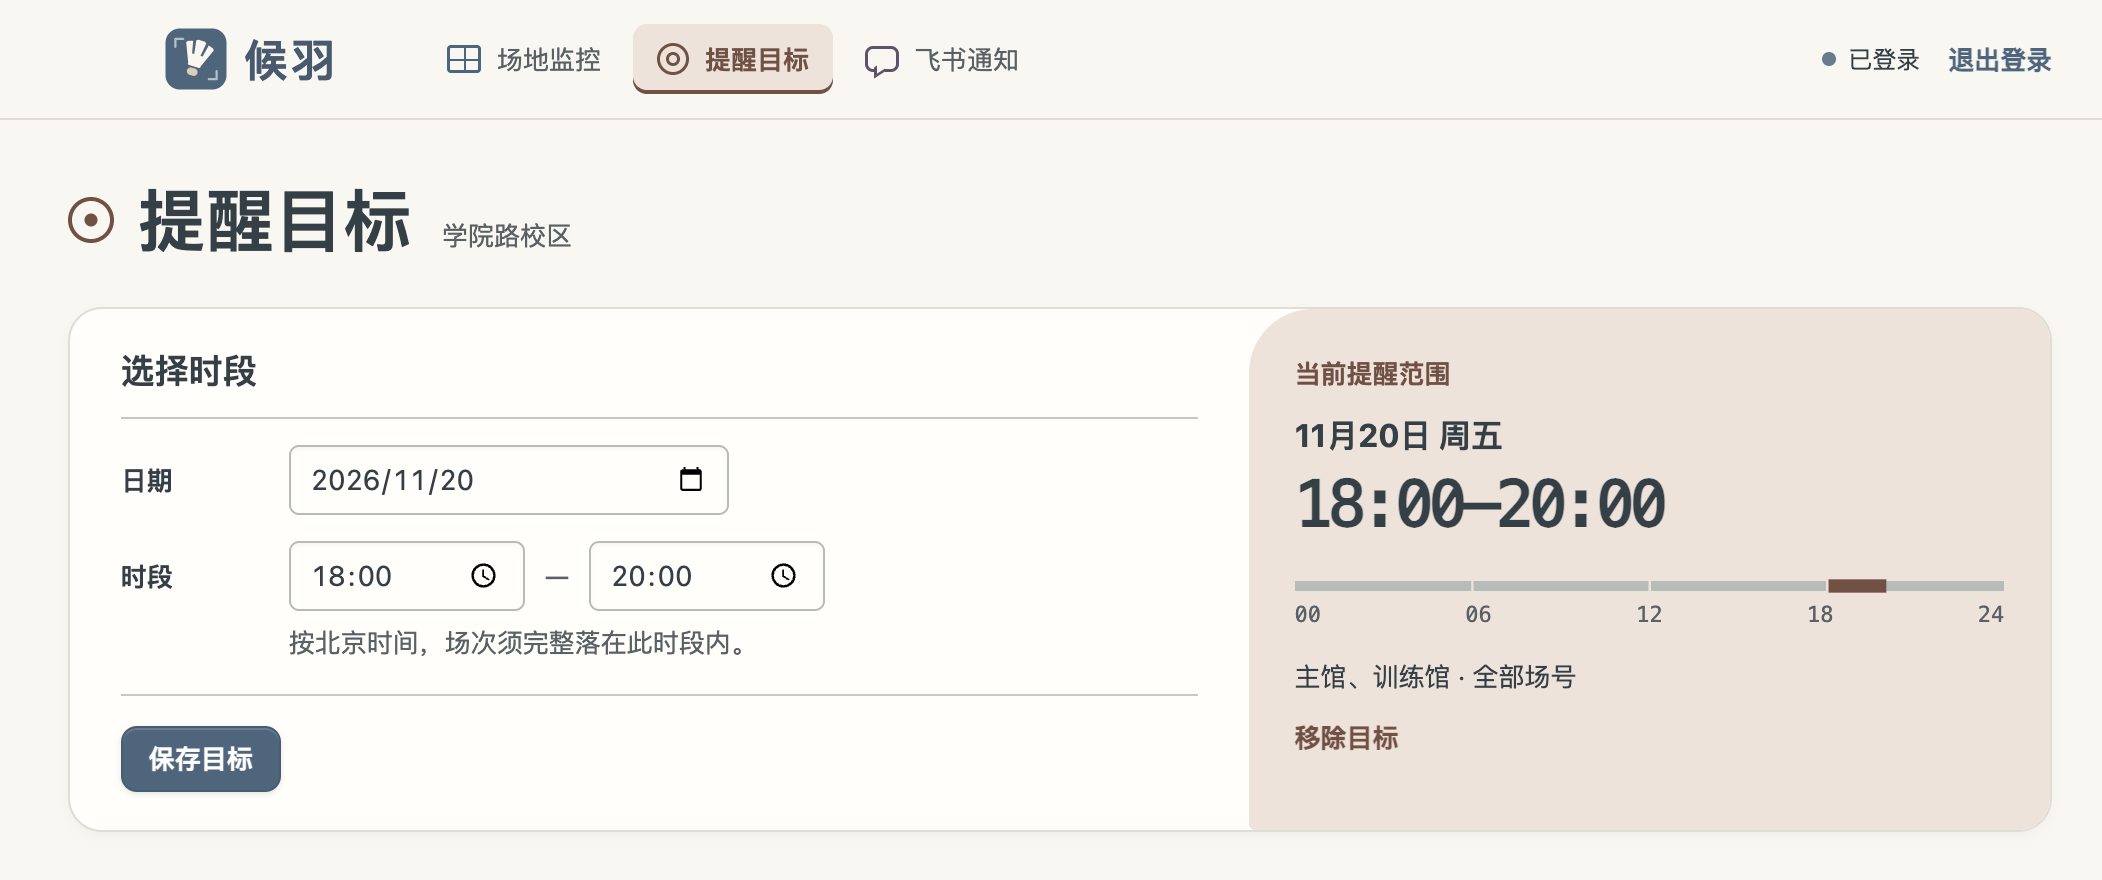
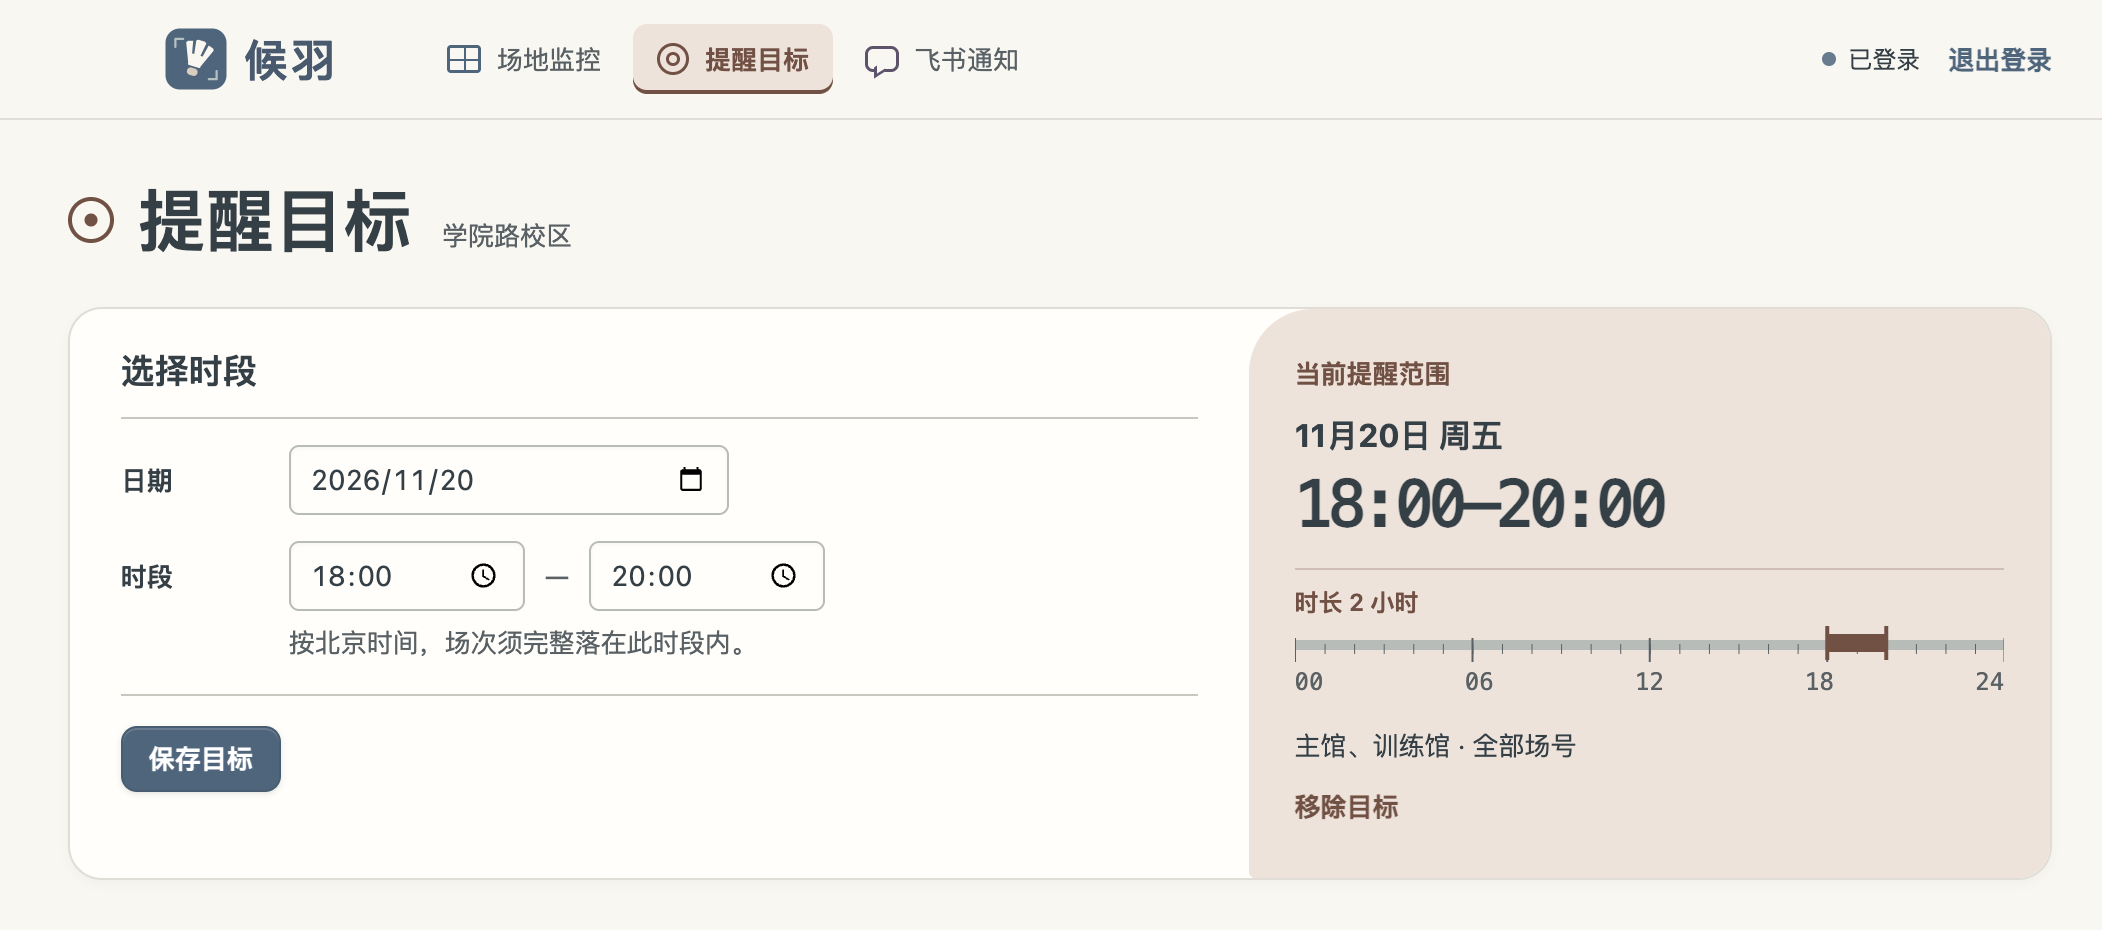
Show the active alert window above the timetable and mark each matching session

diff --git a/src/ui/styles.css b/src/ui/styles.css
@@ -96,7 +96,7 @@ h2 { font-size: 17px; line-height: 1.4; font-weight: 650; }
 .page-head { display: flex; align-items: center; min-height: 55px; margin-bottom: 16px; }
 .page-head > div { display: flex; align-items: baseline; gap: 15px; }
 .page-head h1 { font-weight: 650; font-size: clamp(27px, 3.2vw, 36px); }
-.page-head p, .subtle, .field-note, .push-instructions, #saved-place, #shortcut-place { color: var(--muted); font-size: 13px; }
+.page-head p, .subtle, .field-note, .push-instructions, #saved-place { color: var(--muted); font-size: 13px; }
 #page-target, #page-feishu { max-width: 1080px; }
 #page-target { --section-accent: var(--clay-ink); }
 #page-feishu { --section-accent: var(--plum-ink); }
@@ -159,7 +159,25 @@ h2 { font-size: 17px; line-height: 1.4; font-weight: 650; }
 .monitor-grid { margin-top: 16px; }
 .section-head, .connection-head, .agenda-title { display: flex; align-items: center; justify-content: space-between; gap: 6px 12px; }
 .section-head { flex-wrap: wrap; }
-.agenda-head { min-height: 38px; margin-bottom: 10px; }
+.agenda-top { display: flex; align-items: center; flex-wrap: wrap; gap: 6px 16px; margin-bottom: 9px; }
+.agenda-head { flex: 1 1 auto; min-height: 36px; }
+.target-summary {
+  display: flex; flex: 1 0 100%; align-items: center; gap: 6px 15px; flex-wrap: wrap;
+  padding: 6px 12px; border-left: 4px solid var(--clay-ink); border-radius: 3px 9px 9px 3px;
+  background: var(--clay-paper); color: var(--clay-ink);
+}
+.target-when, .target-label { display: flex; align-items: center; flex-wrap: wrap; gap: 4px 11px; }
+.target-label { gap: 6px; white-space: nowrap; font-size: 13px; font-weight: 650; }
+.target-label .target-icon { width: 14px; height: 14px; }
+#shortcut-range { color: var(--ink); font-size: 14px; font-weight: 600; }
+#shortcut-place { color: var(--clay-ink); font: 650 clamp(16px, 1.85vw, 22px)/1.25 var(--numeric); letter-spacing: -.05em; white-space: nowrap; }
+#shortcut-scope { margin-left: auto; color: var(--clay-ink); font-size: 12px; }
+#open-target { padding: 4px; color: var(--clay-ink); }
+.target-summary[data-state=all] { flex: 0 1 auto; padding: 0; gap: 5px; border: 0; border-radius: 0; background: transparent; }
+.target-summary[data-state=all] :is(.target-label, #shortcut-place, #shortcut-scope) { display: none; }
+.target-summary[data-state=all] #shortcut-range { color: var(--muted); font-size: 12px; font-weight: 450; }
+.target-summary:is([data-state=expired],[data-state=invalid]) { border-left-style: dashed; background: var(--neutral-panel); }
+.target-summary:is([data-state=expired],[data-state=invalid]) :is(#shortcut-place, #shortcut-scope) { color: var(--muted); }
 .agenda-title { flex-wrap: wrap; justify-content: flex-start; align-items: baseline; }
 .agenda-title h2 { font-size: 21px; font-weight: 650; }
 .date-filter { display: flex; flex-wrap: wrap; gap: 2px; }
@@ -187,8 +205,8 @@ tbody .new-day > *, .date-cell { border-top: 1px solid var(--line); }
 .slot-time, .price { font-family: var(--numeric); font-size: 13px; white-space: nowrap; }
 .slot-time { letter-spacing: -.035em; color: var(--muted); font-size: 15px; }
 .slot-time strong { font-weight: 650; color: var(--ink); }
-.in-target .slot-time { padding-left: 9px; box-shadow: inset 2px 0 var(--clay-ink); }
-.target-caption { display: block; width: fit-content; color: var(--clay-ink); font: 550 11px/1.5 system-ui, sans-serif; letter-spacing: .03em; }
+.in-target .slot-time { padding-left: 11px; box-shadow: inset 3px 0 var(--clay-ink); background: color-mix(in srgb, var(--clay-paper) 52%, var(--sheet)); }
+.target-caption { display: inline-block; margin-left: 7px; color: var(--clay-ink); font: 650 12px/1.4 system-ui, sans-serif; }
 .venue-link { min-height: 27px; white-space: nowrap; font-size: 13px; line-height: 1.45; padding: 3px 8px; border-radius: 4px; }
 .venue-link[data-venue="38"] { color: var(--selected-ink); background: var(--blue-paper); }
 .venue-link[data-venue="39"] { color: var(--plum-ink); background: var(--plum-paper); }
@@ -200,10 +218,14 @@ tbody .new-day > *, .date-cell { border-top: 1px solid var(--line); }
 .empty { display: grid; align-content: center; justify-items: start; min-height: 96px; padding: 15px 3px; border-block: 1px solid var(--line); }
 .empty strong { font-size: 15px; font-weight: 560; }
 .empty p { margin-top: 4px; color: var(--muted); font-size: 13px; }
-.inspector { display: grid; grid-template-columns: minmax(0, 1.55fr) minmax(190px, 1fr); align-items: center; gap: clamp(16px, 3vw, 36px); padding: 13px clamp(12px, 2vw, 28px); border-top: 1px solid var(--light-line); border-radius: 0 0 16px 16px; background: var(--tools-surface); }
-.controls { display: grid; grid-template-columns: minmax(125px, .95fr) minmax(166px, 1fr); gap: clamp(15px, 2.5vw, 30px); }
+.inspector { padding: 9px clamp(12px, 2vw, 28px); border-top: 1px solid var(--light-line); border-radius: 0 0 16px 16px; background: var(--tools-surface); }
+.controls { display: flex; align-items: center; flex-wrap: wrap; gap: 8px clamp(17px, 3.5vw, 50px); }
+.controls fieldset, #interval-form { display: flex; align-items: center; gap: 10px; }
+.controls legend { float: left; }
+.controls .campus-options { margin: 0; min-width: 142px; }
+.controls .interval-entry { margin: 0; width: 169px; }
 fieldset { margin: 0; padding: 0; min-width: 0; border: 0; }
-legend, #interval-form label, .shortcut h2 { font-size: 13px; font-weight: 650; }
+legend, #interval-form label { font-size: 13px; font-weight: 650; }
 .campus-options { display: flex; gap: 2px; background: var(--neutral-panel); border: 1px solid var(--line); border-radius: 6px; padding: 2px; margin-top: 6px; }
 .choice { position: relative; flex: 1; text-align: center; }
 .choice input { position: absolute; inset: 0; width: 100%; height: 100%; margin: 0; opacity: 0; }
@@ -224,11 +246,6 @@ input::placeholder { color: var(--muted); }
 .unit-field input::-webkit-inner-spin-button { display: none; }
 .unit-field select { min-height: 32px; max-width: 52%; border: 0; border-left: 1px solid var(--light-line); padding: 2px 1px; border-radius: 0 6px 6px 0; font-size: 12px; background: transparent; cursor: pointer; }
 .interval-entry .button { padding-inline: 9px; }
-.shortcut { display: grid; grid-template-columns: minmax(0,1fr) auto; align-content: center; column-gap: 8px; padding-left: clamp(14px, 2vw, 28px); border-left: 1px solid var(--line); }
-.shortcut .section-head { grid-column: 1 / -1; margin-bottom: 3px; }
-.shortcut h2, .shortcut .quiet { color: var(--clay-ink); }
-#shortcut-range { font-size: 14px; font-weight: 630; }
-#shortcut-place { align-self: center; text-align: right; font-variant-numeric: tabular-nums; }
 .split-sheet { display: grid; grid-template-columns: minmax(0, 1.25fr) minmax(245px, .85fr); align-items: stretch; }
 #target-form, .connection-settings { min-width: 0; padding: 19px clamp(16px, 2.4vw, 34px); }
 .sheet-heading, .connection-head { min-height: 36px; padding-bottom: 9px; border-bottom: 1px solid var(--line); }
@@ -238,12 +255,15 @@ input::placeholder { color: var(--muted); }
 .saved-strip > strong { font-size: 16px; }
 #saved-place { color: var(--clay-ink); font-size: 16px; font-variant-numeric: tabular-nums; }
 #saved-place.saved-hours { margin: 3px 0; color: var(--ink); font: 550 clamp(24px, 3vw, 39px)/1.25 var(--numeric); letter-spacing: -.075em; }
-.day-band { width: 100%; margin: 13px 0 15px; }
-.day-band svg { display: block; width: 100%; height: 10px; }
+.day-band { width: 100%; margin: 9px 0 15px; padding-top: 7px; border-top: 1px solid color-mix(in srgb, var(--clay-ink) 25%, transparent); }
+#band-duration { color: var(--clay-ink); font-size: 12px; font-weight: 600; }
+.day-band svg { display: block; width: 100%; height: 24px; }
 .band-base { fill: var(--control-border); }
 #band-range { fill: var(--clay-ink); }
-.band-ticks { stroke: var(--clay-paper); stroke-width: 5; }
-.day-band div { display: flex; justify-content: space-between; margin-top: 3px; color: var(--muted); font: 11px var(--numeric); }
+.band-tick, #band-ends { stroke: var(--muted); stroke-width: 1; vector-effect: non-scaling-stroke; }
+#band-ends { stroke: var(--clay-ink); stroke-width: 2; }
+.day-band div { position: relative; display: flex; justify-content: space-between; color: var(--muted); font: 12px var(--numeric); }
+.saved-strip:is([data-state=expired],[data-state=invalid]) { background: var(--neutral-panel); }
 #target-coverage { font-size: 13px; }
 .saved-strip button { margin-top: 8px; }
 .saved-strip .quiet { color: var(--clay-ink); }
@@ -277,9 +297,7 @@ input::placeholder { color: var(--muted); }
   .nav { padding-inline: 8px; }
   .monitor-head { grid-template-columns: minmax(0, .95fr) minmax(0, 1fr); }
   .check-times { column-gap: 12px; }
-  .inspector { grid-template-columns: minmax(0, 1.5fr) minmax(150px, .8fr); gap: 15px; }
-  .shortcut { display: block; }
-  #shortcut-place { text-align: left; }
+  .target-caption { display: block; margin: 2px 0 0; }
   .split-sheet { grid-template-columns: minmax(0, 1fr); }
   .message-preview, .saved-strip { padding: 18px; border-radius: 20px 0 16px 16px; }
   .message-card { max-width: 430px; }
@@ -310,11 +328,17 @@ input::placeholder { color: var(--muted); }
   .date-cell small { white-space: normal; }
   .time-zone { display: block; }
   .venue-link { font-size: 12px; padding: 2px 3px; }
-  .in-target .slot-time { padding-left: 4px; }
+  .in-target .slot-time { padding-left: 6px; }
   .court-number { min-width: 24px; font-size: 13px; padding: 2px 3px; }
-  .inspector { grid-template-columns: minmax(0, 1fr); gap: 10px; padding: 10px; }
-  .controls { grid-template-columns: minmax(83px, .82fr) minmax(132px, 1fr); gap: 9px; }
-  .shortcut { display: grid; border-left: 0; border-top: 1px solid var(--line); padding: 7px 0 0; }
+  .inspector { padding: 10px; }
+  .controls { display: grid; grid-template-columns: minmax(83px, .82fr) minmax(132px, 1fr); gap: 9px; }
+  .controls fieldset, #interval-form { display: block; }
+  .controls legend { float: none; }
+  .controls .campus-options, .controls .interval-entry { min-width: 0; width: auto; margin-top: 4px; }
+  .target-summary:not([data-state=all]) { display: grid; grid-template-columns: minmax(0,1fr) auto; gap: 1px 8px; padding: 6px 8px; }
+  .target-when { gap: 3px 7px; }
+  #shortcut-scope { grid-area: 2 / 1; margin-left: 0; }
+  #open-target { grid-column: 2; grid-row: 1 / 3; }
   .form-row { grid-template-columns: minmax(0,1fr); gap: 4px; }
 }
 .sr-only { position: absolute; width: 1px; height: 1px; padding: 0; margin: -1px; overflow: hidden; clip-path: inset(50%); white-space: nowrap; border: 0; }
@@ -324,6 +348,6 @@ input::placeholder { color: var(--muted); }
 }
 @media (forced-colors: active) {
   .court-number, .venue-link, .date-filter button[aria-pressed=true], .choice input:checked + span { border: 1px solid CanvasText; }
-  .in-target .slot-time { border-inline-start: 2px solid CanvasText; }
+  .in-target .slot-time, .target-summary:not([data-state=all]) { border-inline-start: 3px solid Highlight; }
   :focus-visible, .choice input:focus-visible + span { outline: 2px solid Highlight; }
 }

diff --git a/src/ui/index.html b/src/ui/index.html
@@ -45,9 +45,16 @@
 
         <div class="monitor-grid">
           <section class="schedule" aria-labelledby="schedule-title-label">
-            <div class="section-head agenda-head">
-              <div class="agenda-title"><h2 id="schedule-title-label" tabindex="-1">当前空场</h2><span id="scope" class="subtle" title="官网已核验的日期范围"></span></div>
-              <div id="date-filter" class="date-filter" role="group" aria-label="按日期查看空场" hidden></div>
+            <div class="agenda-top">
+              <div class="section-head agenda-head">
+                <div class="agenda-title"><h2 id="schedule-title-label" tabindex="-1">当前空场</h2><span id="scope" class="subtle" title="官网已核验的日期范围"></span></div>
+                <div id="date-filter" class="date-filter" role="group" aria-label="按日期查看空场" hidden></div>
+              </div>
+              <section id="target-summary" class="target-summary" data-state="all" aria-label="本校区提醒目标">
+                <div class="target-when"><span class="target-label"><i class="nav-icon target-icon" aria-hidden="true"></i>提醒目标</span><span id="shortcut-range">全部退订</span><strong id="shortcut-place"></strong></div>
+                <span id="shortcut-scope"></span>
+                <button class="quiet" type="button" id="open-target"><span id="target-link-label">设置目标</span> <span aria-hidden="true">›</span></button>
+              </section>
             </div>
             <div id="read-error" class="warning" role="status" hidden></div>
             <div id="empty" class="empty"><strong id="empty-title">登录北航后可查看场地</strong><p id="empty-note" hidden></p></div>
@@ -75,10 +82,6 @@
                 </div>
               </form>
             </section>
-            <section class="shortcut" aria-labelledby="shortcut-title">
-              <div class="section-head"><h2 id="shortcut-title">提醒目标</h2><button class="quiet" type="button" id="open-target"><span id="target-link-label">设置</span> <span aria-hidden="true">›</span></button></div>
-              <strong id="shortcut-range">全部退订</strong><p id="shortcut-place"></p>
-            </section>
           </aside>
         </div>
       </section>
@@ -99,9 +102,16 @@
           <aside class="saved-strip" aria-labelledby="saved-heading">
             <h2 id="saved-heading">当前提醒范围</h2>
             <strong id="saved-range"></strong><span id="saved-place"></span>
-            <div class="day-band" aria-hidden="true">
-              <svg viewBox="0 0 1440 12" preserveAspectRatio="none" focusable="false"><rect class="band-base" x="0" y="3" width="1440" height="6"></rect><rect id="band-range" x="0" y="2" width="1440" height="8"></rect><path d="M360 0v12 M720 0v12 M1080 0v12" class="band-ticks"></path></svg>
-              <div><span>00</span><span>06</span><span>12</span><span>18</span><span>24</span></div>
+            <div class="day-band" id="day-band">
+              <p id="band-duration"></p>
+              <svg viewBox="0 0 1440 24" preserveAspectRatio="none" aria-hidden="true" focusable="false">
+                <defs><pattern id="hours" width="60" height="24" patternUnits="userSpaceOnUse"><path d="M0 12v5" class="band-tick"></path></pattern></defs>
+                <rect class="band-base" x="0" y="10" width="1440" height="5"></rect><rect x="0" y="0" width="1440" height="24" fill="url(#hours)"></rect>
+                <path d="M0 9v12 M360 9v12 M720 9v12 M1080 9v12 M1440 9v12" class="band-tick"></path>
+                <rect id="band-range" x="0" y="7" width="1440" height="9"></rect>
+                <path id="band-ends" d="M0 3v17 M1440 3v17"></path>
+              </svg>
+              <div aria-hidden="true"><span>00</span><span>06</span><span>12</span><span>18</span><span>24</span></div>
             </div>
             <p id="target-coverage"></p>
             <p class="warning" id="saved-note" hidden></p>

diff --git a/src/ui/renderer.js b/src/ui/renderer.js
@@ -93,6 +93,7 @@ function renderTarget(options, venues, now) {
   const version = JSON.stringify([options.campus, target === undefined ? 'all' : target]);
   const endsAt = target ? Date.parse(`${target.date}T${target.end}:00+08:00`) : 0;
   const expired = Boolean(target && endsAt <= now);
+  const mode = target ? (expired ? 'expired' : 'active') : (target === null ? 'invalid' : 'all');
   const campus = campusNames[options.campus];
   const coverage = `${venues.map(venueName).join('、')} · 全部场号`;
   text('target-coverage', coverage);
@@ -112,6 +113,8 @@ function renderTarget(options, venues, now) {
     note = '请重新保存或移除目标。';
   }
   text('target-campus', campus);
+  get('target-summary').dataset.state = mode;
+  get('saved-heading').parentElement.dataset.state = mode;
   text('saved-range', range);
   text('shortcut-range', range);
   text('saved-place', place);
@@ -121,10 +124,17 @@ function renderTarget(options, venues, now) {
   const end = target ? minute(target.end) : target === null ? 0 : 1440;
   get('band-range').setAttribute('x', String(start));
   get('band-range').setAttribute('width', String(end - start));
-  text('shortcut-place', place);
+  get('band-ends').setAttribute('d', `M${start} 3v17 M${end} 3v17`);
+  get('day-band').hidden = target === null;
+  const duration = end - start;
+  const parts = [Math.floor(duration / 60) ? `${Math.floor(duration / 60)} 小时` : '', duration % 60 ? `${duration % 60} 分钟` : ''].filter(Boolean);
+  text('band-duration', target ? `时长 ${parts.join(' ')}` : '全天');
+  text('shortcut-place', target ? place : '');
+  text('shortcut-scope', mode === 'active' ? `${campus} · 全部场号` : mode === 'all' ? '' : '此校区提醒已暂停');
   text('saved-note', note);
   get('saved-note').hidden = !note;
-  text('target-link-label', target === undefined ? '设置' : '编辑');
+  text('target-link-label', target === undefined ? '设置目标' : '编辑');
+  get('open-target').setAttribute('aria-label', target === undefined ? '设置提醒目标' : '编辑提醒目标');
   get('clear-target').hidden = target === undefined;
   get('target-date').min = today;
   if (version !== editorVersion) targetDirty = false;
@@ -249,7 +259,6 @@ function renderTable(rows, venues, now) {
   body.replaceChildren();
   let restoreFocus;
   let dateCell;
-  let previousInTarget = false;
   for (const slot of rows) {
     const row = body.insertRow();
     if (dateCell?.dataset.date !== slot.date) {
@@ -278,11 +287,10 @@ function renderTable(rows, venues, now) {
     if (slot.inTarget) {
       row.classList.add('in-target');
       const label = document.createElement('small');
-      label.className = previousInTarget ? 'sr-only' : 'target-caption';
-      label.textContent = '目标时段';
+      label.className = 'target-caption';
+      label.textContent = '目标内';
       timeCell.append(label);
     }
-    previousInTarget = Boolean(slot.inTarget);
     const venue = venues.find(item => item.id === slot.venue);
     const link = document.createElement('button');
     link.type = 'button';

diff --git a/README.md b/README.md
@@ -22,10 +22,10 @@
 
 <picture>
   <source media="(prefers-color-scheme: dark)" srcset="docs/monitor-dark.png">
-  <img src="docs/monitor.png" width="920" alt="学院路空场表，按日期列出主馆和训练馆的时段、绿色场号与价格">
+  <img src="docs/monitor.png" width="920" alt="学院路首页，表格上方显示周五 18:00–20:00 的提醒目标，符合时段的行列出可约场号">
 </picture>
 
-表里绿色的数字就是可约场号。选表格右上角的日期，可以单看那一天。要改飞书提醒的日期，请到「提醒目标」里设置。学院路看主馆和训练馆，沙河看综合馆的数字场和 B 区场。
+设好后，空场表上方会显示你等的日期和时间。表内写着「目标内」的就是符合范围的行，**绿色数字是可约场号**。表格右上角的日期只用来翻看空场。学院路看主馆和训练馆，沙河看综合馆的数字场和 B 区场。
 
 等场时让电脑保持唤醒、联网。关掉窗口照常监控，退出候羽后停止。
 
